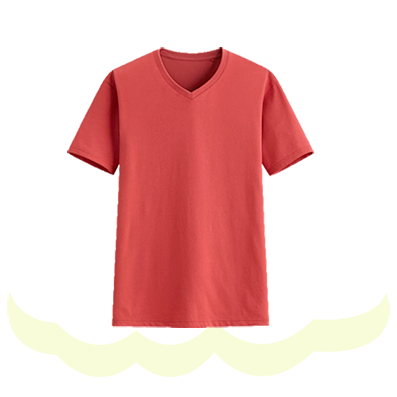
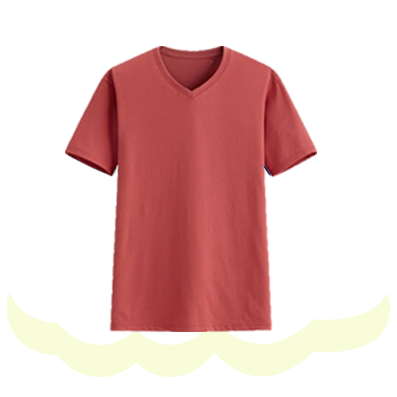
修改圖片

Changed region(s): [[0.1511, 0.0907, 0.8161, 0.8463]]

diff --git a/css/shop.css b/css/shop.css
@@ -214,7 +214,7 @@ cursor:pointer;
 	cursor:default;
 	z-index:2;
 	max-width: 400px;
-	width: 35%;
+	width: 31%;
 	height: auto;
 }
 
